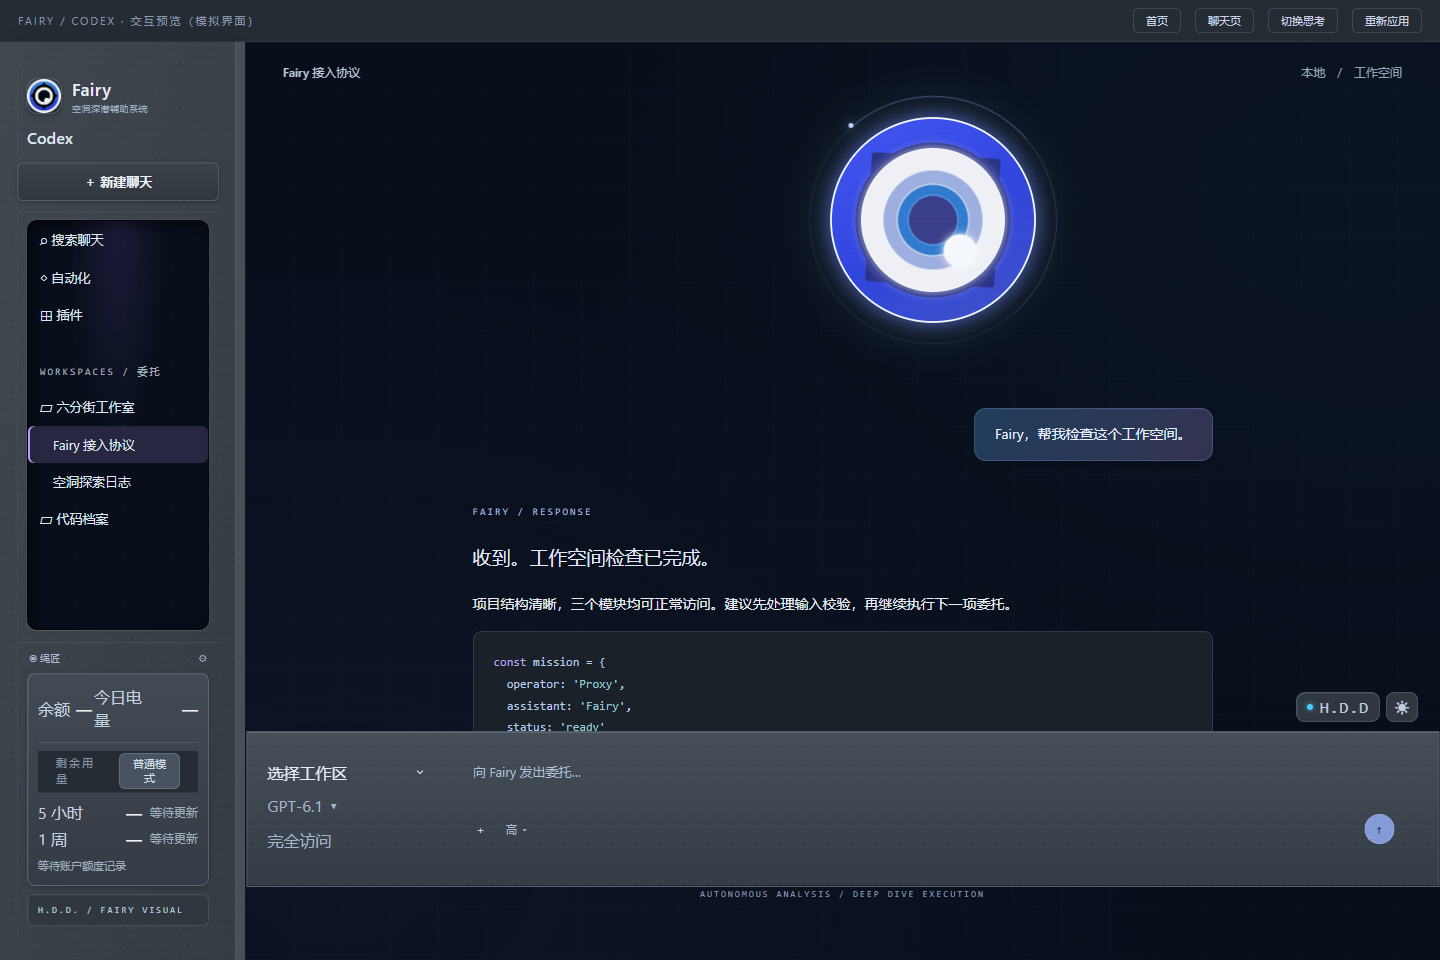
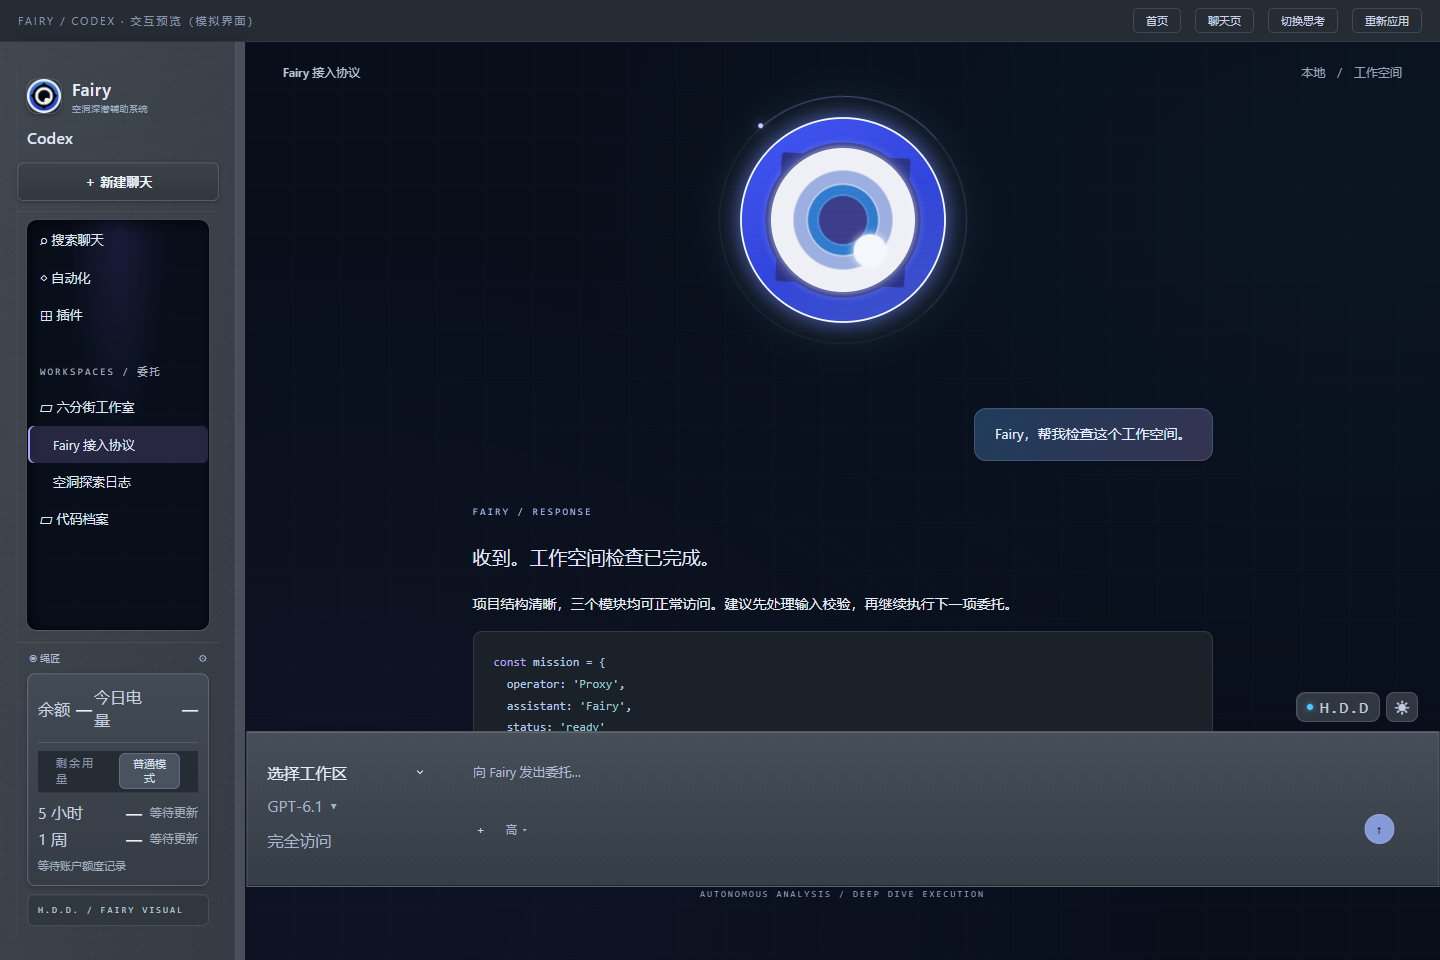
Center Fairy eye within the chat area

Changed region(s): [[0.5, 0.0938, 0.75, 0.375]]

diff --git a/preview.html b/preview.html
@@ -218,7 +218,7 @@
       if(r.width>=24&&r.width<=160&&r.height>=24&&r.height<=160&&r.top>=bounds.top+40&&r.bottom<(composerRect?.top||bounds.bottom))mark(svg,'data-fairy-home-logo');
     }
     overlay.dataset.layout = task ? 'task' : 'home';
-    const x = composerRect?.width ? composerRect.left + composerRect.width/2 : bounds.left + bounds.width / 2;
+    const x = bounds.left + bounds.width / 2;
     const available = Math.min(bounds.bottom, composerRect?.top || bounds.bottom - 100) - bounds.top;
     const y = task ? bounds.top + (innerHeight<=700?130:178) : bounds.top + Math.max(90, available * .36);
     setStyle(overlay,'--fairy-x', `${x}px`); setStyle(overlay,'--fairy-y', `${y}px`);

diff --git a/renderer.js b/renderer.js
@@ -214,7 +214,7 @@
       if(r.width>=24&&r.width<=160&&r.height>=24&&r.height<=160&&r.top>=bounds.top+40&&r.bottom<(composerRect?.top||bounds.bottom))mark(svg,'data-fairy-home-logo');
     }
     overlay.dataset.layout = task ? 'task' : 'home';
-    const x = composerRect?.width ? composerRect.left + composerRect.width/2 : bounds.left + bounds.width / 2;
+    const x = bounds.left + bounds.width / 2;
     const available = Math.min(bounds.bottom, composerRect?.top || bounds.bottom - 100) - bounds.top;
     const y = task ? bounds.top + (innerHeight<=700?130:178) : bounds.top + Math.max(90, available * .36);
     setStyle(overlay,'--fairy-x', `${x}px`); setStyle(overlay,'--fairy-y', `${y}px`);
